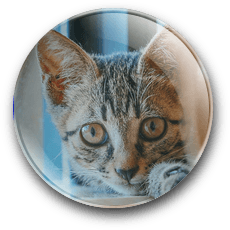
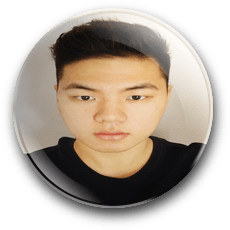
image added

diff --git a/index.html b/index.html
@@ -2,7 +2,7 @@
 <html lang="en">
 <!-- Head -->
 <head>
-<title>My Data a Personal Category Bootstrap Responsive Website Template | Home :: w3layouts</title>
+<title>Jayden's Online CV</title>
 <meta name="viewport" content="width=device-width, initial-scale=1">
 <meta charset="utf-8">
 <!-- Default-JavaScript-File -->
@@ -53,7 +53,7 @@
 						<li><a class="page-scroll scroll" href="#workexperience">WorkExperience</a></li>
 					</ul>
 				</li>
-				<li><a class="page-scroll scroll" href="#skills">skills</a></li>
+				<li><a class="page-scroll scroll" href="#skills">Skills</a></li>
 				<li><a class="page-scroll scroll" href="#contact">Contact</a></li>
             </ul>
         </div>
@@ -132,10 +132,8 @@
 					<div class="about modalpad"> 
 						<div class="col-md-4 col-sm-4  col-xs-4 about-left ">
 							<img src="images/banner5.png" class="img-responsive" alt=""/><div class="social-icons">
-						<a href="#"><i class="fa fa-facebook" aria-hidden="true"></i></a>
-						<a href="#"><i class="fa fa-linkedin" aria-hidden="true"></i></a>
-						<a href="#"><i class="fa fa-google-plus" aria-hidden="true"></i></a>
-						<a href="#"><i class="fa fa-twitter" aria-hidden="true"></i></a>
+						<a href="https://www.facebook.com/joongsan.jun"><i class="fa fa-facebook" aria-hidden="true"></i></a>
+						<a href="https://www.linkedin.com/in/joong-san-jun-8b46a5147/"><i class="fa fa-linkedin" aria-hidden="true"></i></a>
 					</div>
 						</div>
 						<div class="col-md-8 col-sm-8 col-xs-8 about-right wthree">
@@ -157,19 +155,13 @@
 								<li>
 									<ul class="agileits-address-text">
 										<li><b>ADDRESS </b></li>
-										<li>110 Atatürk Blvd, Kavaklıdere, 06100, Turkey.</li>
+										<li>6 Wivenhoe Place, Runcorn, 4113, QLD, Australia.</li>
 									</ul>
 								</li>
 								<li>
 									<ul class="agileits-address-text">
 										<li><b>E-MAIL </b></li>
-										<li><a href="mailto:example@mail.com"> info@example.com</a></li>
-									</ul>
-								</li>
-								<li>
-									<ul class="agileits-address-text">
-										<li><b>WEBSITE </b></li>
-										<li><a href="#">www.mydata.com</a></li>
+										<li><a href="mailto:pepejun123@hotmail.com"> pepejun123@hotmail.com</a></li>
 									</ul>
 								</li>
 							</ul> 

diff --git a/css/style.css b/css/style.css
@@ -52,7 +52,7 @@ a:focus, a:hover {
 	outline: none;
 }
 img{
-	width:100%;
+	width:95%;
 }
 /*-- //Reset-Code --*/
 /* Special class on .container surrounding .navbar, used for positioning it into place. */
@@ -1120,18 +1120,6 @@ div#portfolioModal1,div#portfolioModal2,div#portfolioModal3,div#portfolioModal4,
     left: -100px;
     top: 52px;
 }
-
-
-
-
-
-
-
-
-
-
-
-
 
 /*-- about--*/
 .abt-gd-left {
